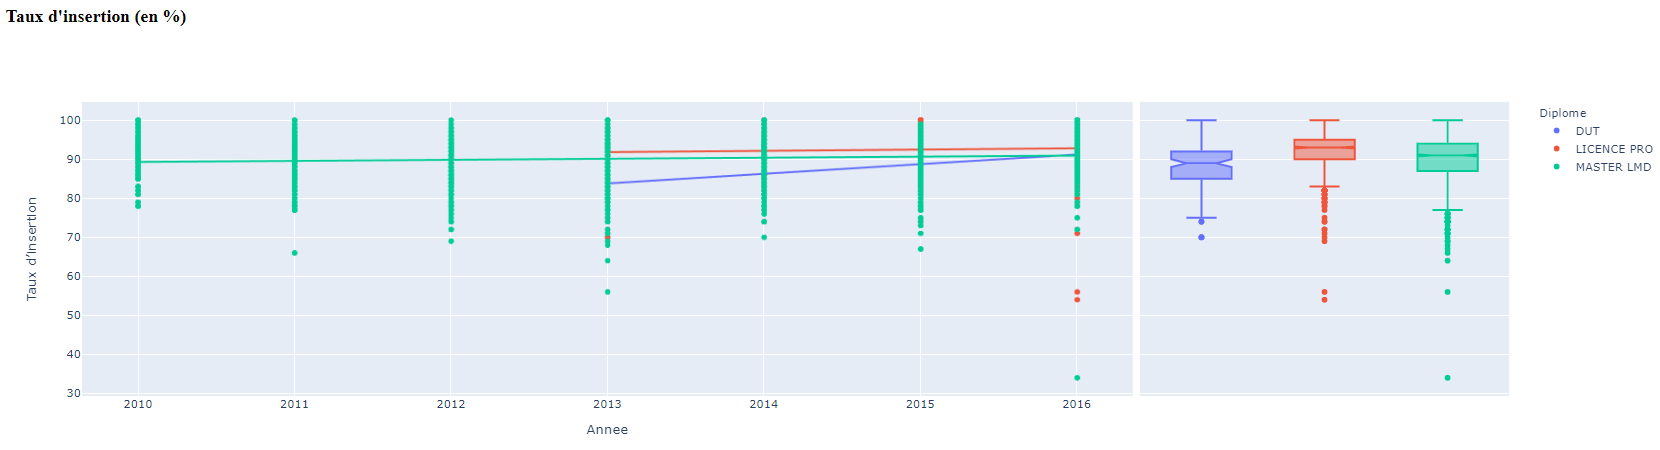
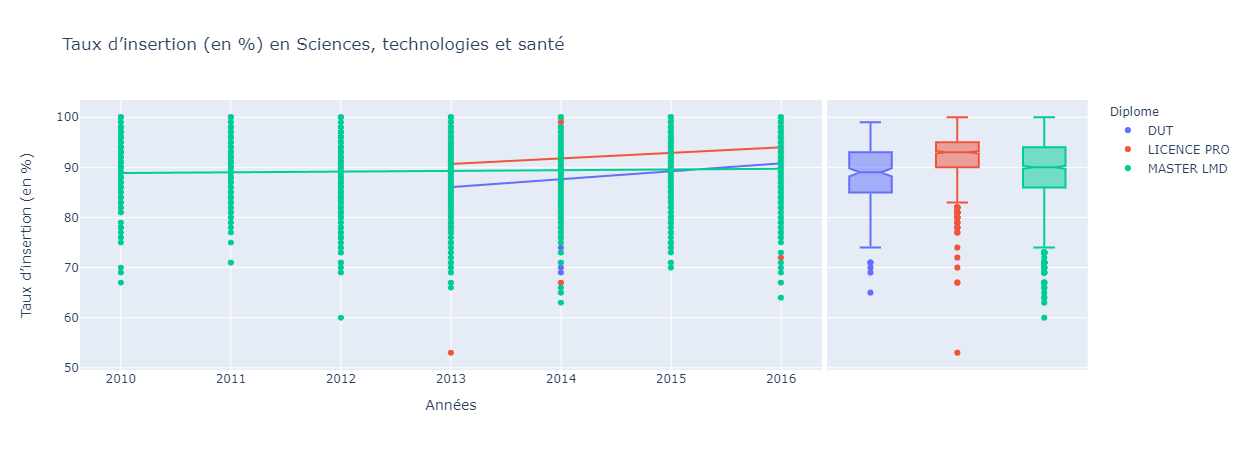
version finale

diff --git a/README.md b/README.md
@@ -596,27 +596,25 @@ Dans cette partie, nous présentons les évolutions des statistiques critiques d
 En général, la part des femmes dans les établissements d’IUT varie énormément et diminue au cours du temps contrairement à celle dans les autres établissements, qui est plus stable.
 <br>
 
-![tauxdinsertparan.PNG](images/tauxdinsertparan.PNG)
+![tauxdinsertparan.png](images/tauxdinsertparan.png)
 
-Les taux d’insertion de toutes les disciplines et de tous les diplômes varient légèrement au cours des années, généralement le taux d’insertion des licences professionnelles est légèrement supérieur à celui des masters et des DUT, qui se trouve en dernière position.
-<br>
+Les taux d’insertion de toutes les disciplines, de licence professionnelle et de DUT croissent légèrement au cours des années, généralement le taux d’insertion des licences professionnelles est légèrement supérieur à celui des masters et des DUT, qui se trouve en dernière position.
 
-![cadrestablesparan.PNG](images/cadrestablesparan.PNG)
+![cadrestablesparan.png](images/cadrestablesparan.png)
 L'évolution de la tendance et de la distribution du taux d'emplois cadres de chaque diplôme reste stable au cours des années. En général, les diplômés en master ont plus de chance d’être recruté en tant que cadre que ceux de DUT et de licence professionnelle.
-<br>
+
+![stablesparan.png](images/stablesparan.png)
 
 Ici, un emploi stable signifie à durée indéterminée. La variation des tendances des diplômes master et licence professionnelle n’est pas énorme au cours du temps, contrairement à celle des DUT qui varie beaucoup. 
-<br>
 
+![salairesparan.png](images/salairesparan.png)
 
-
-![salairesparan.PNG](images/salairesparan.PNG)
  la tendance et de la distribution des salaires nets mensuels (en euros) de chaque diplôme au cours des années en fonction de la discipline choisie ne varient pas énormément.
- <br>
+
 
 - #### Bilan
 
-A partir de toutes ces observations, on constate une décroissance évidente en « Science, technologie et santé » et « Sciences humains et sociales » dans la part des femmes au cours des années qui apparaît dans tout type de diplôme. A part cela, on peut conclure que les statistiques critiques ne varient pas énormément, la différence se situe principalement entre les différents types de diplôme et les disciplines. 
+A partir de toutes ces observations, on constate une décroissance évidente en « Science, technologie et santé » et « Sciences humains et sociales » dans la part des femmes au cours des années qui apparaît dans tout type de diplôme, ainsi qu'une variation relativement plus énorme en « Sciences humains et sociales » dans tout type de diplôme. A part cela, on peut conclure que les statistiques critiques ne varient pas énormément, la différence se situe principalement entre les différents types de diplôme et les disciplines. 
 
 
 
